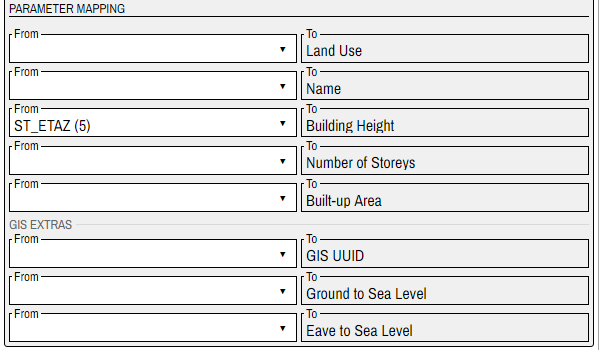
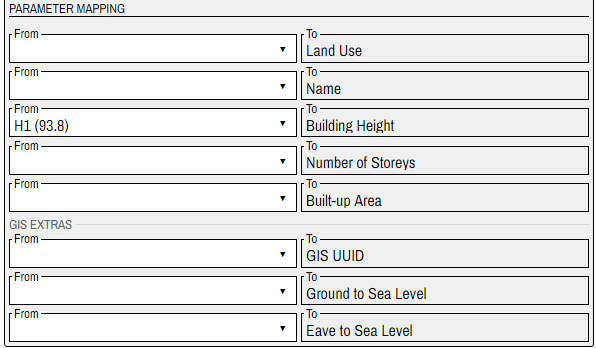
GIS documentation

Changed region(s): [[0.0, 0.0, 1.0, 1.0], [0.0603, 0.0, 0.2111, 0.0575]]

diff --git a/docs/reference/gis.md b/docs/reference/gis.md
@@ -1,20 +1,20 @@
 # GIS import
 
-GIS import is a brand new Modelur feature, which allows user to import __Shapefiles (shp)__ and __GeoJSON__ files to SketchUp and transform 2D GIS data to 3D model.
+_GIS import_ is a brand new Modelur feature, which allows you to import __Shapefiles__ and __GeoJSON__ files to SketchUp and transform 2D GIS data to a 3D model.
 
-GIS import allows you to __map GIS attributes to Modelur parameters__.
-For example you can map GIS attribute `NUM_OF_STO` to Modelur parameter `Number of storeys`. Modelur will then use the value from GIS attribute when generating buildings.
+_GIS import_ gives you the possibility to __map GIS attributes to Modelur parameters__.
+For example you can map GIS attribute `NUM_OF_STO` to Modelur parameter `Number of storeys`. Modelur will then use the value from GIS attribute when generating Modelur Building objects for GIS layer.
 
 ## Requirements
 ### Set Geo-location
 Your SketchUp model needs to have geolocation set before you can import GIS data. You can set the model's geolocation under `File -> Geo-location` in SketchUp.
 
 ### Supported file types
-You can import GIS data that are saved as __Shapefiles (.shp)__ or __GeoJSON (.geojson)__. Files need to be saved in __WGS84 coordinate system__.
+You can import GIS data that are saved as __GeoJSON (.geojson)__ or __Shapefiles (.shp)__. Files need to be saved in __WGS84 coordinate system__.
 
 ### Supported data types
 Modelur supports the following GIS data types:
-- __polygons__ (can be imported as _Modelur Buildings_, _Complex Buildings_ or _Building Volumes_)
+- __polygons__ (can be imported as _Modelur Buildings_, _Modelur Complex Buildings_, _Modelur City Blocks_ or _Simple Building Volumes_)
 - __points__ (can be imported as _Trees_, _Waste Bins_ or _Terrain_)
 - __polylines__ (can be imported as _Metro_ or _Underground Pipes_)
 
@@ -31,7 +31,8 @@ Initialize Modelur and go to `File -> Import GIS Data ... ` to open __GIS Data I
 ![Open GIS Data Import window](../img/gis_open_GIS_data_import.png)
 <figcaption>Figure 1.2 - Open GIS Data Import window.</figcaption>
 <br/>
-Gis Data import window will open:
+
+__Gis Data import__ window will open:
 
 ![GIS Data Import window](../img/gis_data_import_window.png)
 <figcaption>Figure 1.3 - GIS Data Import window.</figcaption>
@@ -42,23 +43,23 @@ Here you will import your `.shp` or `.geojson` file and set preferences (see _GI
 Click the `...` button at the right side of the _File Path_ field and select `.shp` or `.geojson` file that you want to import.
 
 ![Import file](../img/gis_browse_file_path.png)
-<figcaption>Figure 1.4 - Import .shp or .geojson file.</figcaption>
+<figcaption>Figure 1.4 - File Path field.</figcaption>
 
 ### Offset
 Determine the offset for your model if needed. The unit for offset is the same as the currently chosen unit in Modelur (meters or feet).
 
 ![Set offset](../img/gis_set_offset.png)
-<figcaption>Figure 1.5 - Set offset.</figcaption>
+<figcaption>Figure 1.5 - Fields for setting offset.</figcaption>
 
 ### Import as
 Set of choices that will be presented in this dropdown depends on the type of data that you imported from your `.shp` or `.geojson` file.
 
-* If the file contains __polygons__, you can import them as _Modelur Buildings_, _Complex Buildings_ or _Building Volumes_.
+* If the file contains __polygons__, you can import them as _Modelur Buildings_, _Modelur Complex Buildings_, _Modelur City Blocks_ or _Simple Building Volumes_.
 * If the file contains __points__, they can be imported as _Trees_, _Waste Bins_ or _Terrain_.
-* File containing __polylines__ can be imported as _Metro_ or _Underground Pipes_.
+* If the file contains __polylines__, they can be imported as _Metro_ or _Underground Pipes_.
 
 ![Import as](../img/gis_import_as.png)
-<figcaption>Figure 1.6 - Import as.</figcaption>
+<figcaption>Figure 1.6 - Import as field.</figcaption>
 
 ### Import Mapping...
 By clicking this button you will import parameter mapping from a mapping (`.mjson`) file. Parameter mapping will be shown in the _Parameter Mapping_ section.
@@ -67,80 +68,87 @@ By clicking this button you will import parameter mapping from a mapping (`.mjso
 By clicking this button you will export current parameter mapping (from _Parameter Mapping_ section) to a mapping (`.mjson`) file.
 
 ### Import GIS layer
-After you set the mapping in the _Parameter Mapping_ section, you use this button. This will generate Modelur objects and add them to a new SketchUp layer to your .skp model.
+After you set the mapping in the _Parameter Mapping_ section, you use this button. This will generate appropriate Modelur objects and add them to a new SketchUp layer to your model.
 
 ![GIS Layer](../img/gis_import_gis_layer.png)
-<figcaption>Figure 1.7 - .skp model with GIS layer.</figcaption>
+<figcaption>Figure 1.7 - SketchUp model with GIS layer.</figcaption>
 
 ### Parameter Mapping
-Here you connect (map) _Modelur parameters_ with _GIS attributes_. Modelur will use value from mapped GIS attribute for a parameter value. For example, Modelur will use value from GIS attribute `ST_ETAZ` as `Building Height` parameter value when creating Modelur Buildings for GIS layer.
-
-TODO: replace image with image containing only english attributes (Amsterdam)
+Here you connect (map) _Modelur parameters_ with _GIS attributes_. Modelur will use value from mapped GIS attribute for a parameter value. For example, Modelur will use value from GIS attribute `H1` as `Building Height` parameter value when creating Modelur Buildings for GIS layer.
 
 ![Parameter Mapping](../img/gis_mapping.png)
-<figcaption>Figure 1.8 - Example of GIS attribute to Modelur parameter mapping.</figcaption>
+<figcaption>Figure 1.8 - Parameter Mapping area.</figcaption>
 <br>
 
-Modelur parameters listed on the right (`To` area) depend on the data type in your .shp/.geojson file and on the option you selected in the `Import as` dropdown. For example TODO
+Options in `From` dropdowns consist of GIS attribute name and a randomly chosen attribute value (e.g. `H1 (93.8)`). We included attribute value to give you an example of what each GIS attribute contains. Hopefully, this will make it easier for you to map attributes to parameters.
 
-You map Modelur parameter field to GIS attribute by selecting the GIS attribute from dropdown on the left (`From` area). Dropdown options contain GIS attribute name and a randomly chosen attribute value (e.g. `YEAR_BUILT (1994)`). We included attribute value to give you an example of what each GIS attribute contains. Hopefully, that will make it easier for you to map attributes to parameters.
+Modelur parameters listed on the right (`To` dropdowns) depend on the type of data in your `.shp`/`.geojson` file and on the option you selected in the `Import as` dropdown. For example, if you import polygons as _Modelur Buildings_, you will see the parameters _Land Use_, _Name_, _Building Height_ etc. If you import points as _Trees_, you will see the parameters _Tree Height_, _Tree Species_ etc.
 
-TODO: replace image with image containing only english attributes (Amsterdam)
+You map Modelur parameter to GIS attribute by selecting the GIS attribute from dropdown on the left (`From` area). Image 1.9 shows us choosing GIS attribute _Soortnaam_ to map to Modelur parameter _Tree Species_.
 
 ![Parameter Mapping](../img/gis_parameter_mapping_from.png)
-<figcaption>Figure 1.8 - Example of GIS attribute to Modelur parameter mapping.</figcaption>
+<figcaption>Figure 1.9 - Example of GIS attribute to Modelur parameter mapping.</figcaption>
 
 <br>
 
-Some Modelur parameters (e.g `Number of Storeys`) can remain unmapped because Modelur can use default values to create objects for GIS layer. Those parameters that currently do not have default values (and can not remain unmapped) will be listed in the _GIS non-mapped parameter values_ area. See _GIS non-mapped parameter values_ section for more information.
+Some Modelur parameters (e.g `Number of Storeys`) can remain unmapped because Modelur can use default values to create objects for GIS layer. Those parameters that currently do not have default values (and can not remain unmapped) will be listed in the _GIS Non-mapped Parameter Values_ area. See _GIS Non-mapped Parameter Values_ section for more information.
 
-If you map `Land Use` Modelur parameter, a new _Land Use Mapping_ area will appear below the _Parameter mapping_ area. See _Land Use Mapping_ section for more information.
+Some parameters, for example  _Land Use_, _Tree Species_ and _Pipe Color_,  offer additional mapping possibilities. See _Additional Parameter Mapping_ section for more information.
 
 #### GIS Extras
-This section contains Modelur parameters that are not used for creating Modelur objects (Buildings etc.). These parameters just contain some additional information used for placing the objects on the model. For example `Ground to Sea Level` for Buildings.
+This section contains Modelur parameters that are not used for creating Modelur objects (e.g. Modelur Buildings). These parameters just contain some additional information used for placing the objects on the model. For example `Ground to Sea Level` for Buildings.
 
-TODO: add image?
+![Parameter Mapping](../img/gis_extras.png)
+<figcaption>Figure 1.10 - Parameters in GIS Extras area.</figcaption>
 
-#### Land Use Mapping - TODO
-_Land Use Mapping_ area appears when you map `Land Use` Modelur parameter. _Land Use Mapping_
-Is generated from unique attribute values of chosen attribute, mapped to Land Use parameter field in parameter mapper. It connects attribute values to Modelur Land uses. On left side is value of attribute, on the right side is dropdown with all Land Uses.
+#### Additional Parameter Mapping
+Some parameters, for example  _Land Use_, _Tree Species_ and _Pipe Color_,  offer additional mapping possibilities.
 
-TODO: add image
+When you map such parameter to GIS attribute, additional mapping area will appear under _Parameter Mapping_ area. There you can map for example _Tree Species_ values from GIS to _Tree Species_ values from Modelur.
 
-#### Color Mapping- TODO
-_Color Mapping_ area is generated from unique attribute values of chosen attribute, mapped to Pipe or Tube Color parameter field in parameter mapper. It connects attribute values to possible colors. On left side is value of attribute, on the right side is dropdown with possible colors.
+Let us look at _Land Use_ additional parameter mapping example:
 
-TODO: add image
+##### Land Use Mapping
 
-#### GIS non-mapped parameter values
-While some Modelur parameters can remain unmapped (because Modelur can use default values), some can not. For example, all _Trees_ and _Tube_ parameters must be mapped.
+_Land Use Mapping_ area appears when you map `Land Use` Modelur parameter.
 
-The parameters that can not remain unmapped and that are not (yet) mapped in the _Parameter Mapping_ area, will be listed in _GIS non-mapped parameter values_ area.
+On the left side (`From`) are listed (unique) values of the GIS attribute that maps to Modelur `Land Use` parameter. On the right side (`To`) are dropdowns containing all Modelur _Land Use_ types.
+
+You map GIS Land Uses to Modelur Land Uses by selecting a Land Use type from the `To` dropdown. Image 1.11 shows us choosing Modelur Land Use _Residential_ to map to GIS Land Use _1122100 - Flat in a multi-apartment building_.
+
+![Parameter Mapping](../img/gis_land_use_mapping.png)
+<figcaption>Figure 1.11 - Example of GIS Land Use to Modelur Land Use Mapping.</figcaption>
+<br>
+
+You can map different GIS Land Uses to the same Modelur Land Use.
+
+#### GIS Non-mapped Parameter Values
+While some Modelur parameters can remain unmapped (because Modelur can use default values), some can not. For example, all _Metro_ parameters must be mapped.
+
+The parameters that can not remain unmapped and that are not (yet) mapped in the _Parameter Mapping_ area, will be listed in _GIS Non-mapped Parameter Values_ area.
 
 ![Non-mapped parameter values area](../img/gis_non-mapped_parameter_values.png)
-<figcaption>Figure 1.8 - Parameters that are not (yet) mapped in the Parameter Mapping area, will be listed in GIS non-mapped parameter values area.</figcaption>
+<figcaption>Figure 1.12 - Parameters that are not (yet) mapped in the Parameter Mapping area, will be listed in GIS Non-mapped Parameter Values area.</figcaption>
 <br>
 
-If you map the parameters in the _Parameter Mapping_ area, they will disappear from _GIS non-mapped parameter values_ area.
+If you map the parameters in the _Parameter Mapping_ area, they will disappear from _GIS Non-mapped Parameter Values_ area.
 
 ![Parameters will disappear from non-mapped parameter values area](../img/gis_non-mapped_parameter_values_2.png)
-<figcaption>Figure 1.8 - If you map the parameters in the Parameter Mapping area, they will disappear from GIS non-mapped parameter values area.</figcaption>
+<figcaption>Figure 1.13 - If you map the parameters in the Parameter Mapping area, they will disappear from GIS Non-mapped Parameter Values area.</figcaption>
 <br>
 
-Dropdowns in the _GIS non-mapped parameter values_ area contain actual values that are available for certain parameter. The chosen value will be used for all objects in GIS layer.
-
-TODO: Trees: why can't you set tree species in the parameter mapping section?
+Dropdowns in the _GIS Non-mapped Parameter Values_ area contain actual values that are available for certain parameter. The chosen value will be used for all objects in GIS layer.
 
 ## GIS Preferences
 Here you set how Modelur will perform certain GIS related functions.
 
-If you don't see the options, click on the square icon on the right of the  _GIS Preferences_ tittle. This will expand _GIS Preferences_ area.
+If you don't see the options, click on the square icon on the right of the  _GIS Preferences_ tittle area. This will expand _GIS Preferences_ area.
 
 ![GIS Preferences](../img/gis_preferences.png)
-<figcaption>Figure 1.6 - GIS Preferences area.</figcaption>
+<figcaption>Figure 1.14 - GIS Preferences area.</figcaption>
 
 ### Max number of mapped Land Uses
-_Land Use mapper_ area (see _Land Use Mapping_ section) is generated from unique values of the GIS attribute that maps to _Land Use_ Modelur parameter.
+_Land Use mapper_ area (see _Land Use Mapping_ section) is generated with unique values of the GIS attribute that maps to _Land Use_ Modelur parameter.
 
 You might accidentally choose a GIS attribute with e.g. 1000 or more fields. Then the generation of _Land Use Mapper_ will take a long time and can even break the program.
 
@@ -163,7 +171,7 @@ Values from the imported mapping file will replace values from the _Parameter Ma
 Values from the _Parameter Mapping_ area will remain unchanged. Only those fields that do not have a value set will be filled with values from imported mapping file.
 
 ### Update Land Use values
-If _Land Uses_ defined in mapping file you will import differ from the same named _Land Uses_ from model, you have two options:
+If _Land Uses_, defined in mapping file you will import, differ from the same named _Land Uses_ from model, you have two options:
 
 #### 1. Skip (use existing)
 Use _Land Uses_ defined in model.
@@ -179,7 +187,7 @@ If checked, Modelur will add _Land Uses_ from the mapping file to the model. If 
 ### Check if mapping file was modified outside Modelur
 When you click the `Export Mapping...` button, you generate a mapping file that can be imported to other Modelur instances or used later.
 
-It is highly recommended not to edit the mapping file outside Modelur GIS Import Interface. Otherwise the file form can become corrupted which can cause trouble.
+It is highly recommended not to edit the mapping file outside Modelur _GIS Import_ Interface. Otherwise the file form can become corrupted which can cause trouble.
 
 If you choose this option, Modelur will check if the file was edited outside Modelur and warn you if that is true.
 
